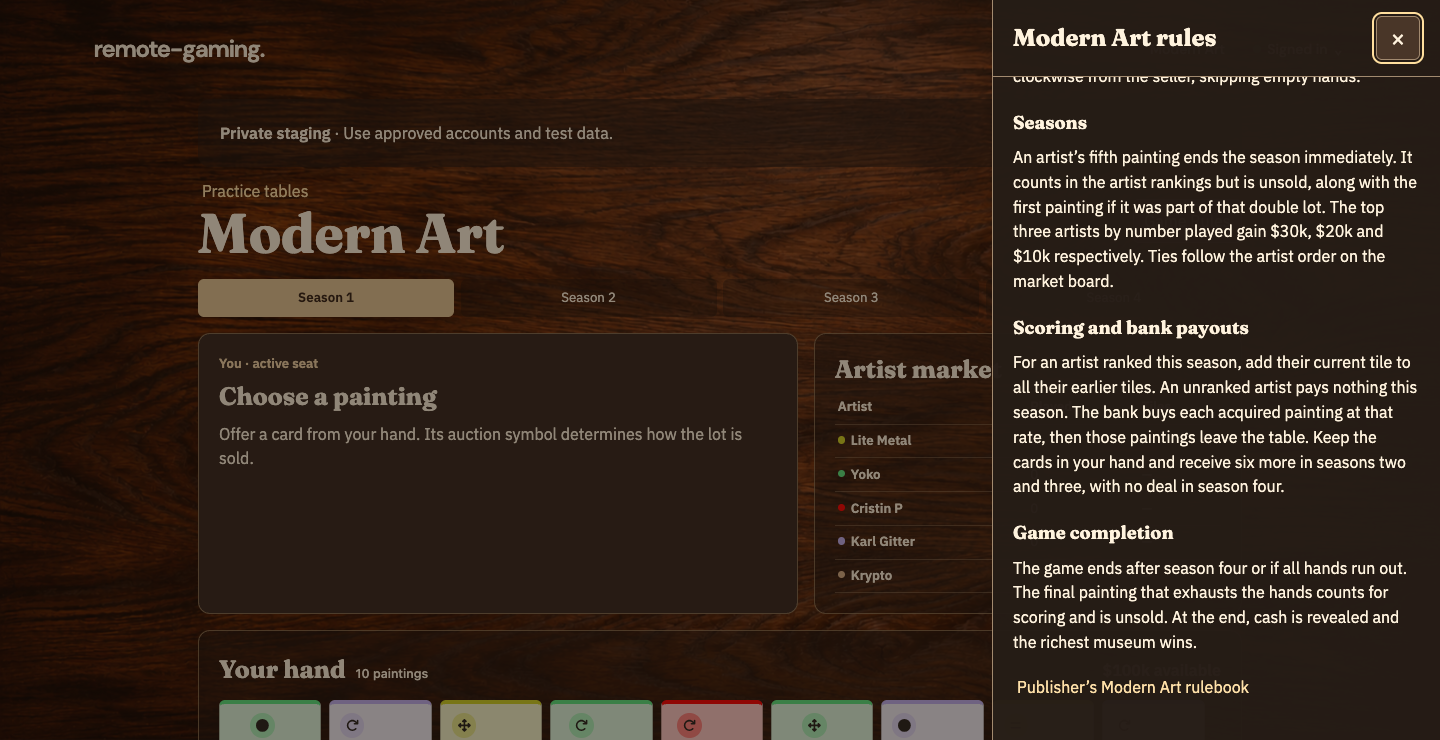
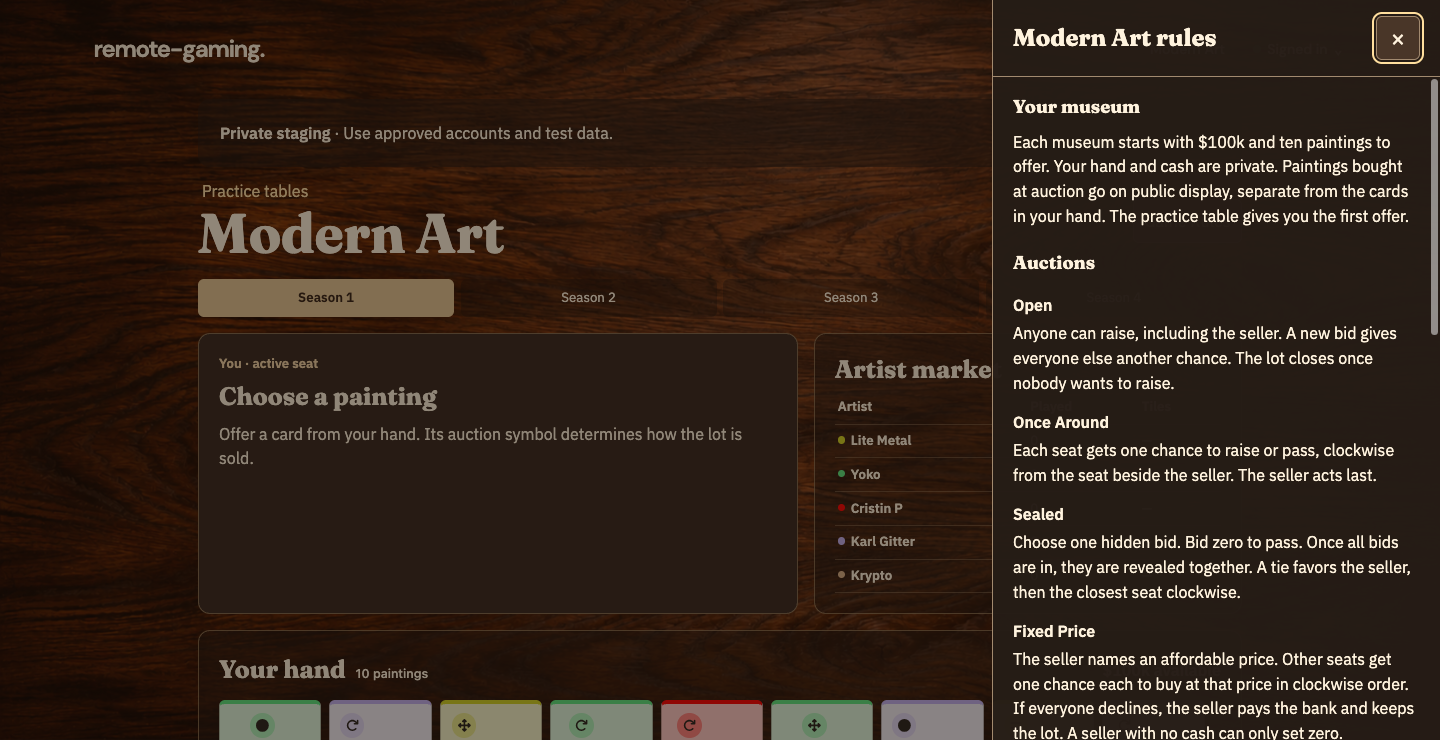
Keep the rules drawer flush with the viewport edge

Changed region(s): [[0.6875, 0.0932, 1.0, 1.0]]

diff --git a/app/frontend/entrypoints/modern_art_rules.js b/app/frontend/entrypoints/modern_art_rules.js
@@ -10,8 +10,10 @@ if (drawer) {
     if (!trigger || drawer.open) return
 
     opener = trigger
-    drawer.querySelector(".modern-art-rules-content").scrollTop = 0
+    const root = document.documentElement
+    root.style.setProperty("--modern-art-rules-scrollbar", `${innerWidth - root.clientWidth}px`)
     drawer.showModal()
+    drawer.querySelector(".modern-art-rules-content").scrollTop = 0
   })
 
   function outside(event) {
@@ -37,5 +39,8 @@ if (drawer) {
     target.focus()
   })
 
-  drawer.addEventListener("close", () => opener?.focus({ preventScroll: true }))
+  drawer.addEventListener("close", () => {
+    document.documentElement.style.removeProperty("--modern-art-rules-scrollbar")
+    opener?.focus({ preventScroll: true })
+  })
 }

diff --git a/app/frontend/styles/modern_art_rules.css b/app/frontend/styles/modern_art_rules.css
@@ -1,6 +1,9 @@
 html:has(#modern-art-rules-drawer[open]) {
   overflow: hidden;
-  scrollbar-gutter: stable;
+}
+
+html:has(#modern-art-rules-drawer[open]) body {
+  padding-inline-end: var(--modern-art-rules-scrollbar, 0px);
 }
 
 #modern-art-rules-drawer {
